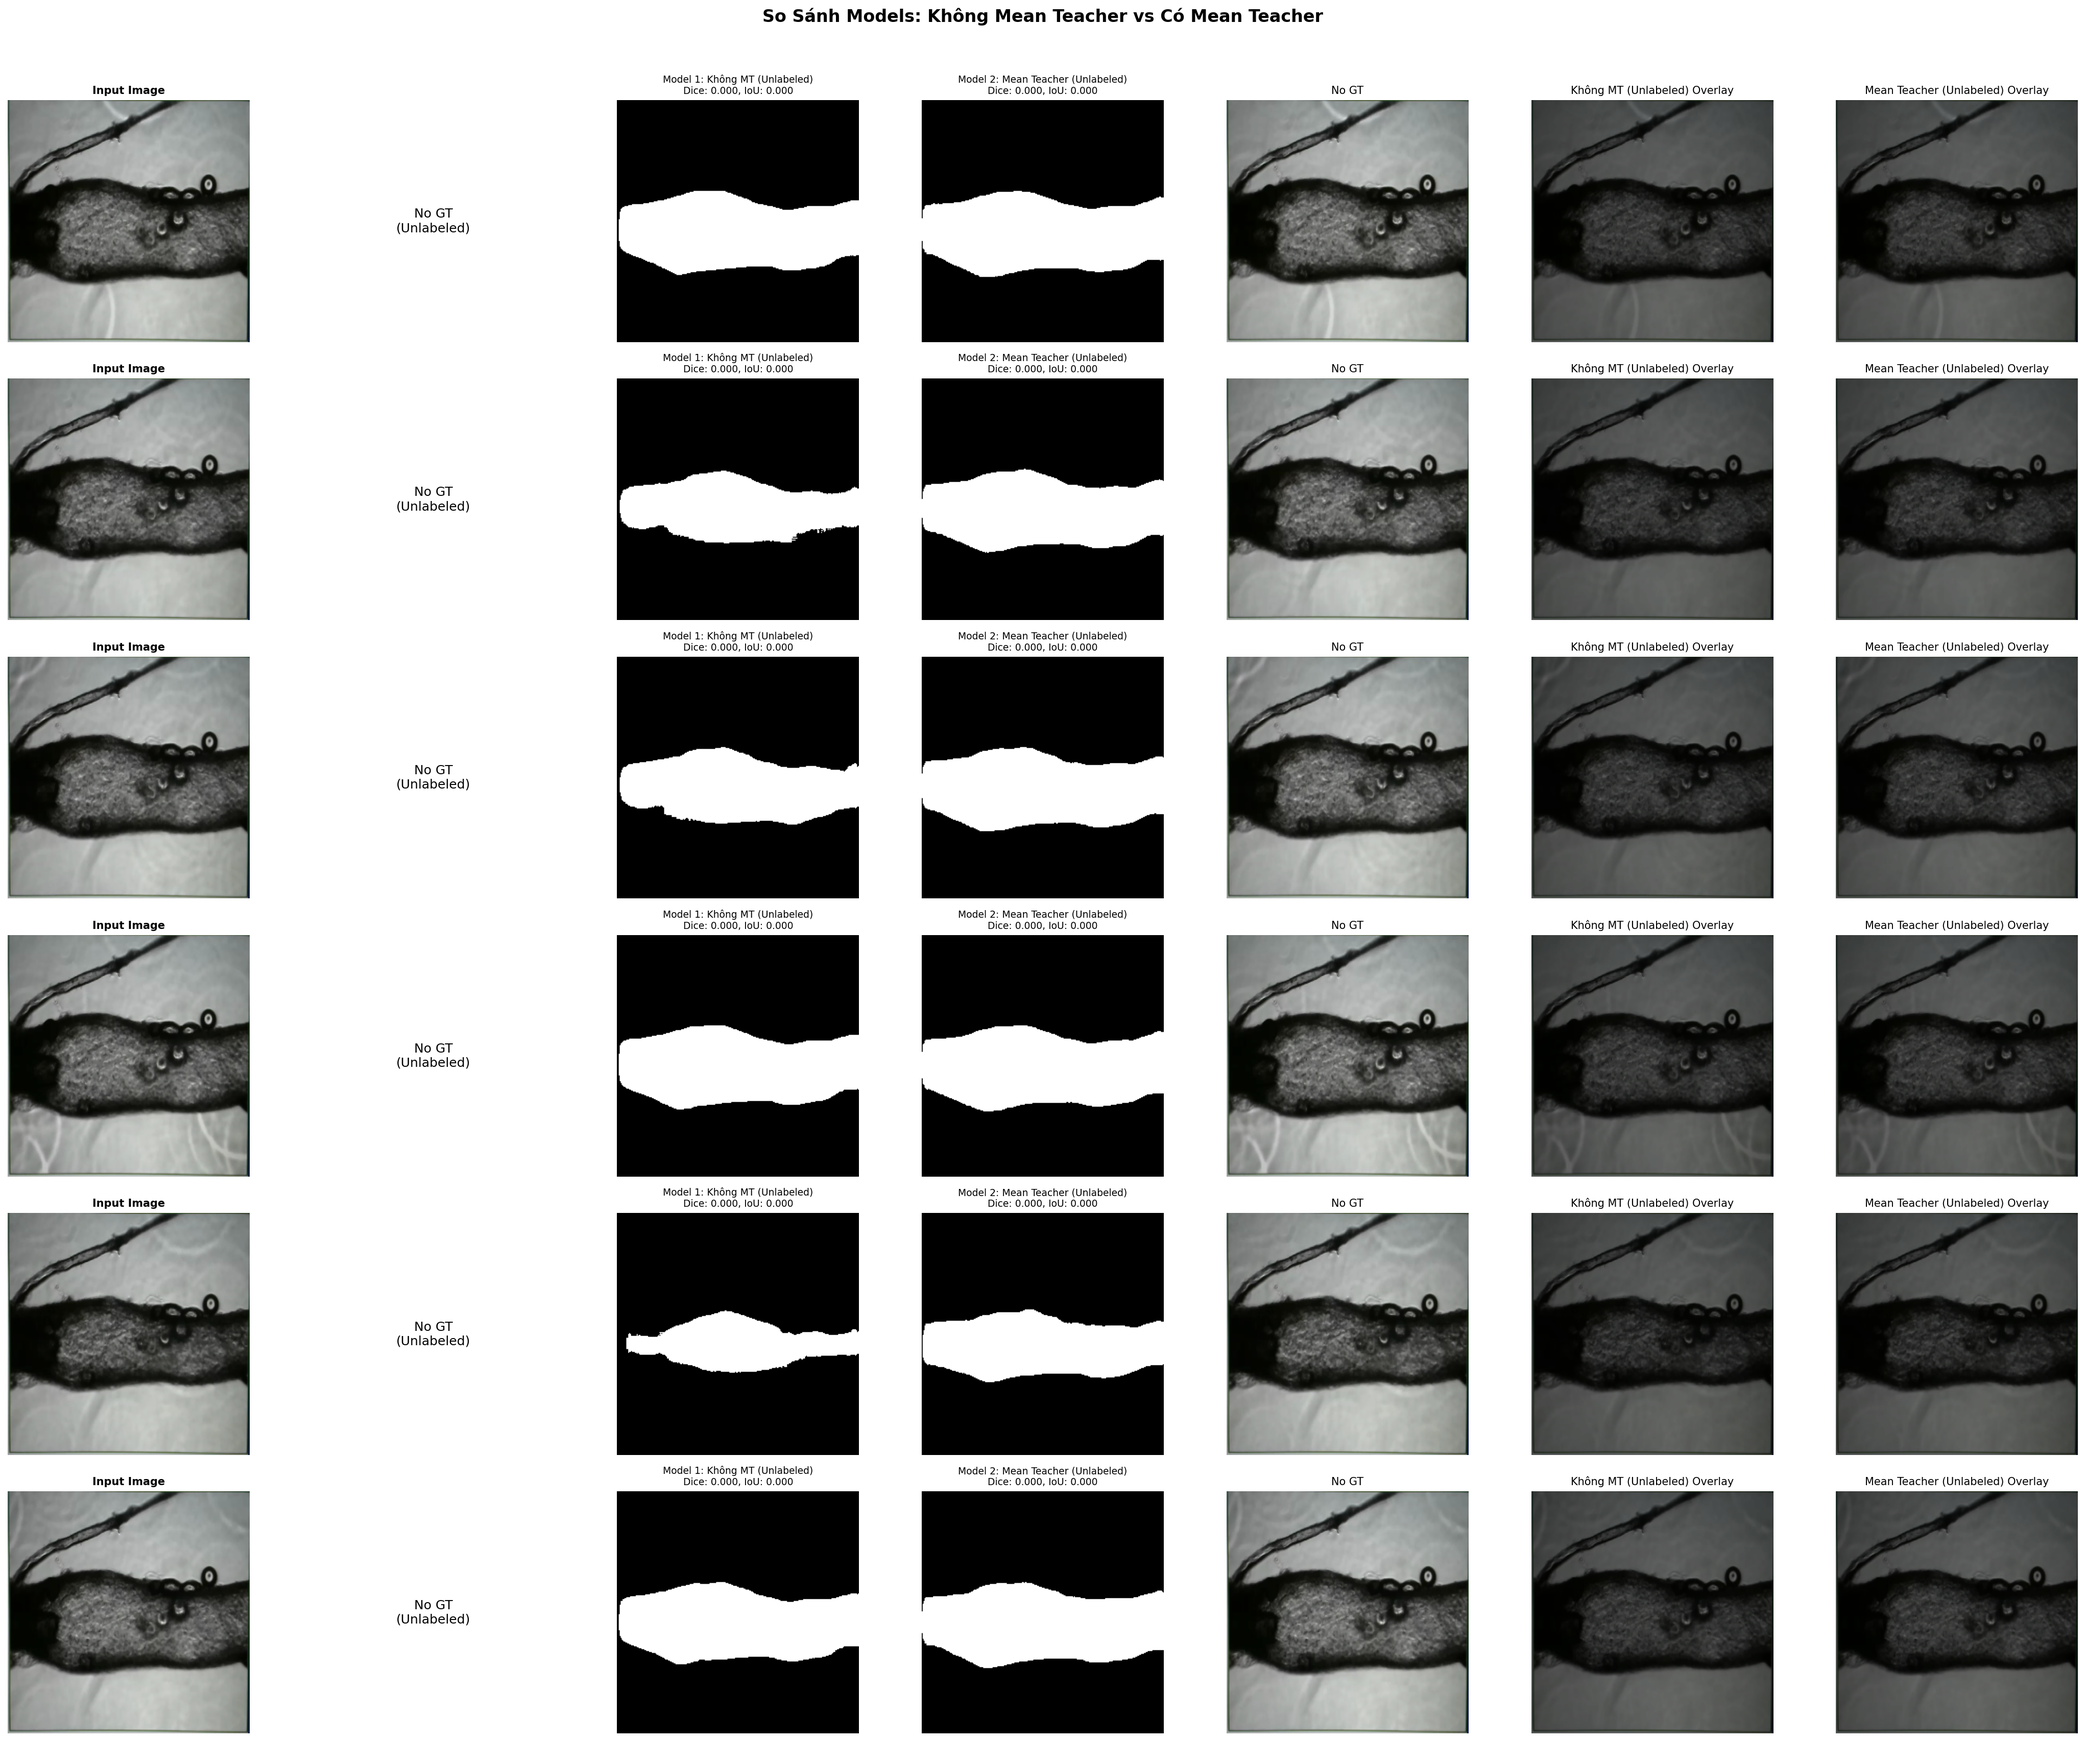
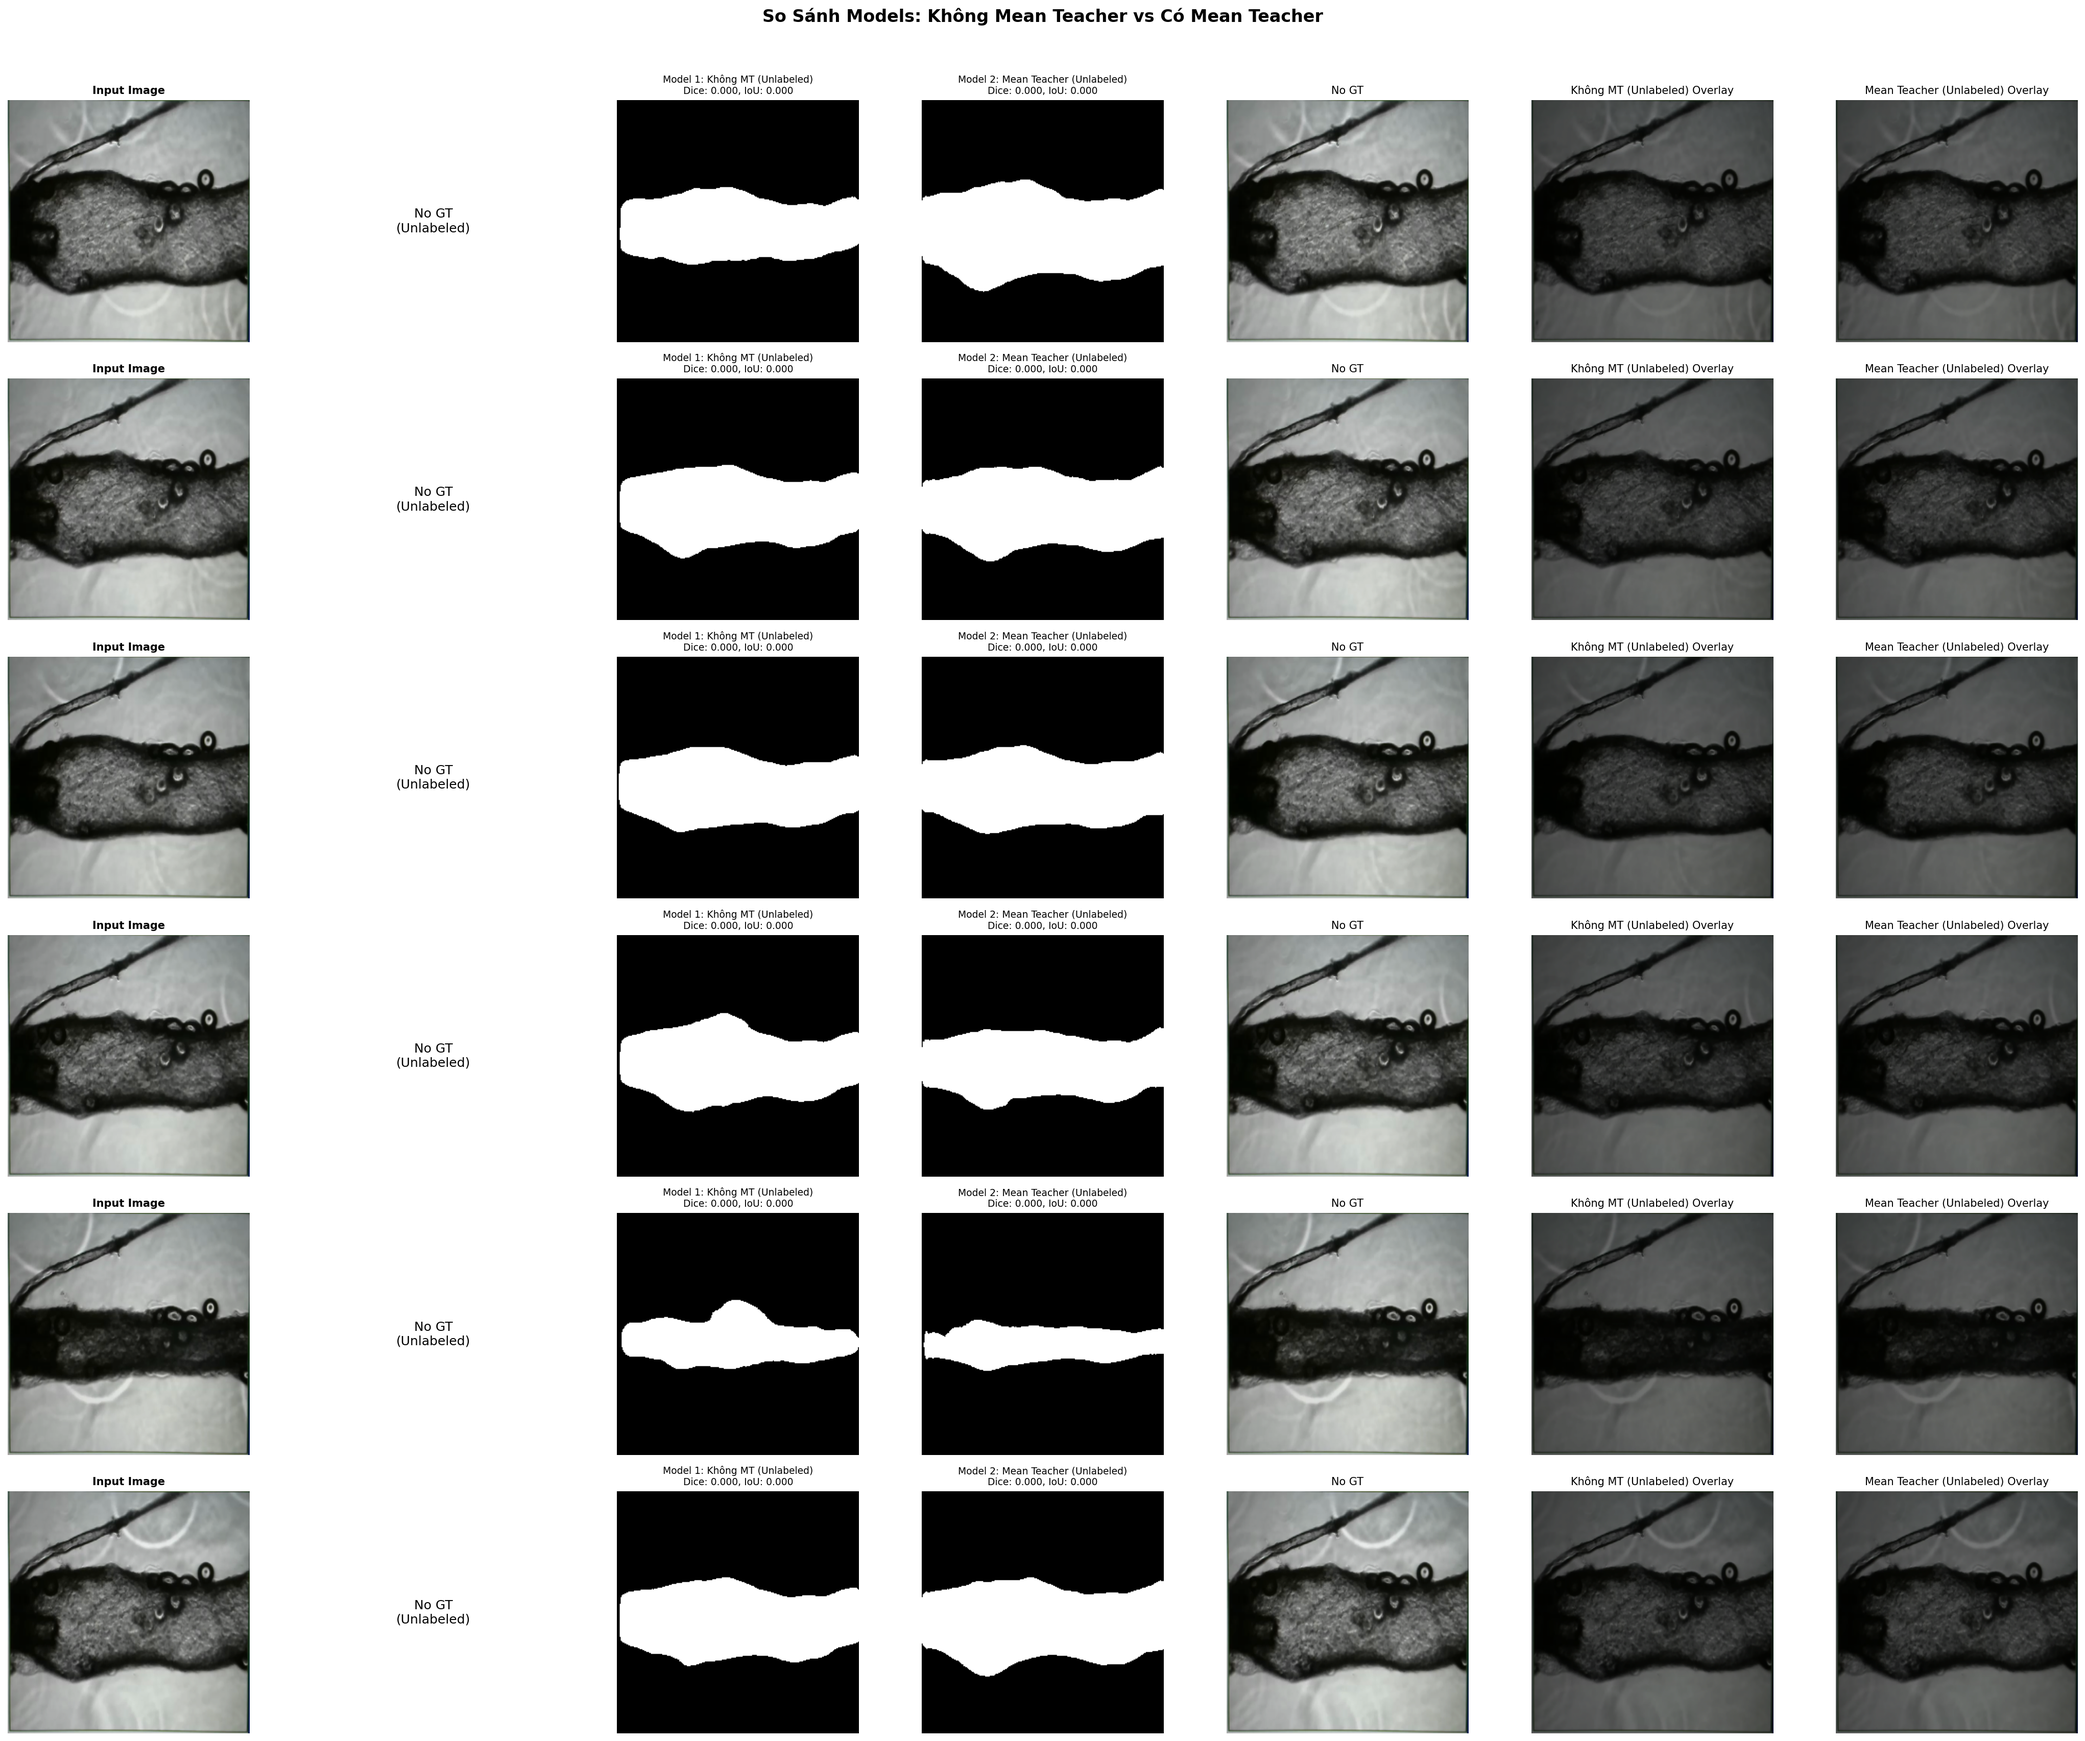
Update: Add red overlay visualization for model comparison
- Update README with red overlay visualization guide
- Improve compare_and_visualize_500frames.py with brighter red overlay and border
- Add .gitignore for model checkpoints and logs
- Add comparison visualization outputs

diff --git a/compare_and_visualize_500frames.py b/compare_and_visualize_500frames.py
@@ -16,16 +16,27 @@ from src.models.model_factory import get_model, load_checkpoint
 from src.data.datasets import VideoDataset
 from src.config import ExperimentConfig
 
-def overlay_mask_red(image, mask, alpha=0.5):
-    """Overlay mask màu đỏ lên image"""
+def overlay_mask_red(image, mask, alpha=0.6):
+    """Overlay mask màu đỏ rõ ràng lên image với border"""
     image_rgb = image.copy()
     if len(image_rgb.shape) == 2:
         image_rgb = cv2.cvtColor(image_rgb, cv2.COLOR_GRAY2RGB)
     
-    colored_mask = np.zeros_like(image_rgb)
-    colored_mask[mask > 0.5] = [255, 0, 0]  # Màu đỏ
+    # Tạo binary mask
+    binary_mask = (mask > 0.5).astype(np.uint8)
     
+    # Tạo colored mask - màu đỏ sáng hơn
+    colored_mask = np.zeros_like(image_rgb)
+    colored_mask[binary_mask == 1] = [255, 0, 0]  # Màu đỏ tươi
+    
+    # Overlay
     overlay = cv2.addWeighted(image_rgb, 1 - alpha, colored_mask, alpha, 0)
+    
+    # Thêm border màu đỏ để dễ nhận biết hơn
+    kernel = np.ones((3, 3), np.uint8)
+    border = cv2.dilate(binary_mask, kernel, iterations=1) - binary_mask
+    overlay[border == 1] = [255, 50, 50]  # Border màu đỏ nhạt hơn
+    
     return overlay
 
 def load_model(model_path, config):
@@ -69,7 +80,13 @@ def visualize_comparison(
     print("=" * 60)
     
     # Load config
-    config = ExperimentConfig.from_json(config_path) if Path(config_path).exists() else ExperimentConfig()
+    import json
+    if Path(config_path).exists():
+        with open(config_path) as f:
+            config_dict = json.load(f)
+        config = ExperimentConfig.from_dict(config_dict)
+    else:
+        config = ExperimentConfig()
     
     # Load models
     model1, device = load_model(model1_path, config)

diff --git a/README.md b/README.md
@@ -124,12 +124,12 @@ python visualize_compare_models.py --dataset labeled --num_samples 6 --device mp
 python visualize_compare_models.py --dataset video_frames --num_samples 6 --device mps --output models/comparison_video_frames.png
 ```
 
-### Large-Scale Comparison with Overlay (500 Frames)
+### Large-Scale Comparison with Red Overlay (500 Frames)
 
-For a comprehensive comparison with overlay visualization on many frames:
+For a comprehensive comparison with **red overlay visualization** on many frames (recommended for easy visual inspection):
 
 ```bash
-python compare_and_visualize_500frames.py --num_samples 50 --output models/comparison_500frames_overlay.png
+python compare_and_visualize_500frames.py --num_samples 50 --output models/comparison_500frames_overlay_red.png
 ```
 
 **Options:**
@@ -137,15 +137,21 @@ python compare_and_visualize_500frames.py --num_samples 50 --output models/compa
 - `--model1`: Path to first model (default: `models/final_no_mt.pth`)
 - `--model2`: Path to second model (default: `models/final_mt.pth`)
 - `--frames_dir`: Directory containing frames (default: `data/video_frames`)
+- `--config`: Path to config file (default: `config.json`)
 - `--output`: Output path for visualization PNG
 
 **Output:** A single PNG file showing:
 - **Column 1:** Original input frames
-- **Column 2:** Model 1 (No Mean Teacher) predictions with red overlay
-- **Column 3:** Model 2 (Mean Teacher) predictions with red overlay
-- **Column 4:** Side-by-side comparison
+- **Column 2:** Model 1 (No Mean Teacher) predictions with **bright red overlay** and border
+- **Column 3:** Model 2 (Mean Teacher) predictions with **bright red overlay** and border
+- **Column 4:** Side-by-side comparison for direct visual comparison
 
-This visualization helps identify which model performs better on different frames and provides visual feedback on segmentation quality.
+**Features:**
+- **Red overlay** (alpha=0.6) with **red border** for clear visibility
+- Easy to distinguish predictions even on dark or similar-colored backgrounds
+- Shows predictions from both models side-by-side for direct comparison
+
+This visualization helps identify which model performs better on different frames and provides clear visual feedback on segmentation quality.
 
 ## GUI Application
 
@@ -263,10 +269,11 @@ python -m src.main final --use_mean_teacher
    ```
    Output: `models/final_mt.pth`
 
-6. **Compare and visualize both models:**
+6. **Compare and visualize both models with red overlay:**
    ```bash
-   python compare_and_visualize_500frames.py --num_samples 50 --output models/comparison_500frames_overlay.png
+   python compare_and_visualize_500frames.py --num_samples 50 --output models/comparison_500frames_overlay_red.png
    ```
+   This generates a visualization with bright red overlay for easy visual inspection of predictions from both models.
 
 For more details, see `HUONG_DAN_CHAY_STAGES.md` and `SO_SANH_MEAN_TEACHER_VS_PSEUDO_LABELS.md`.
 
